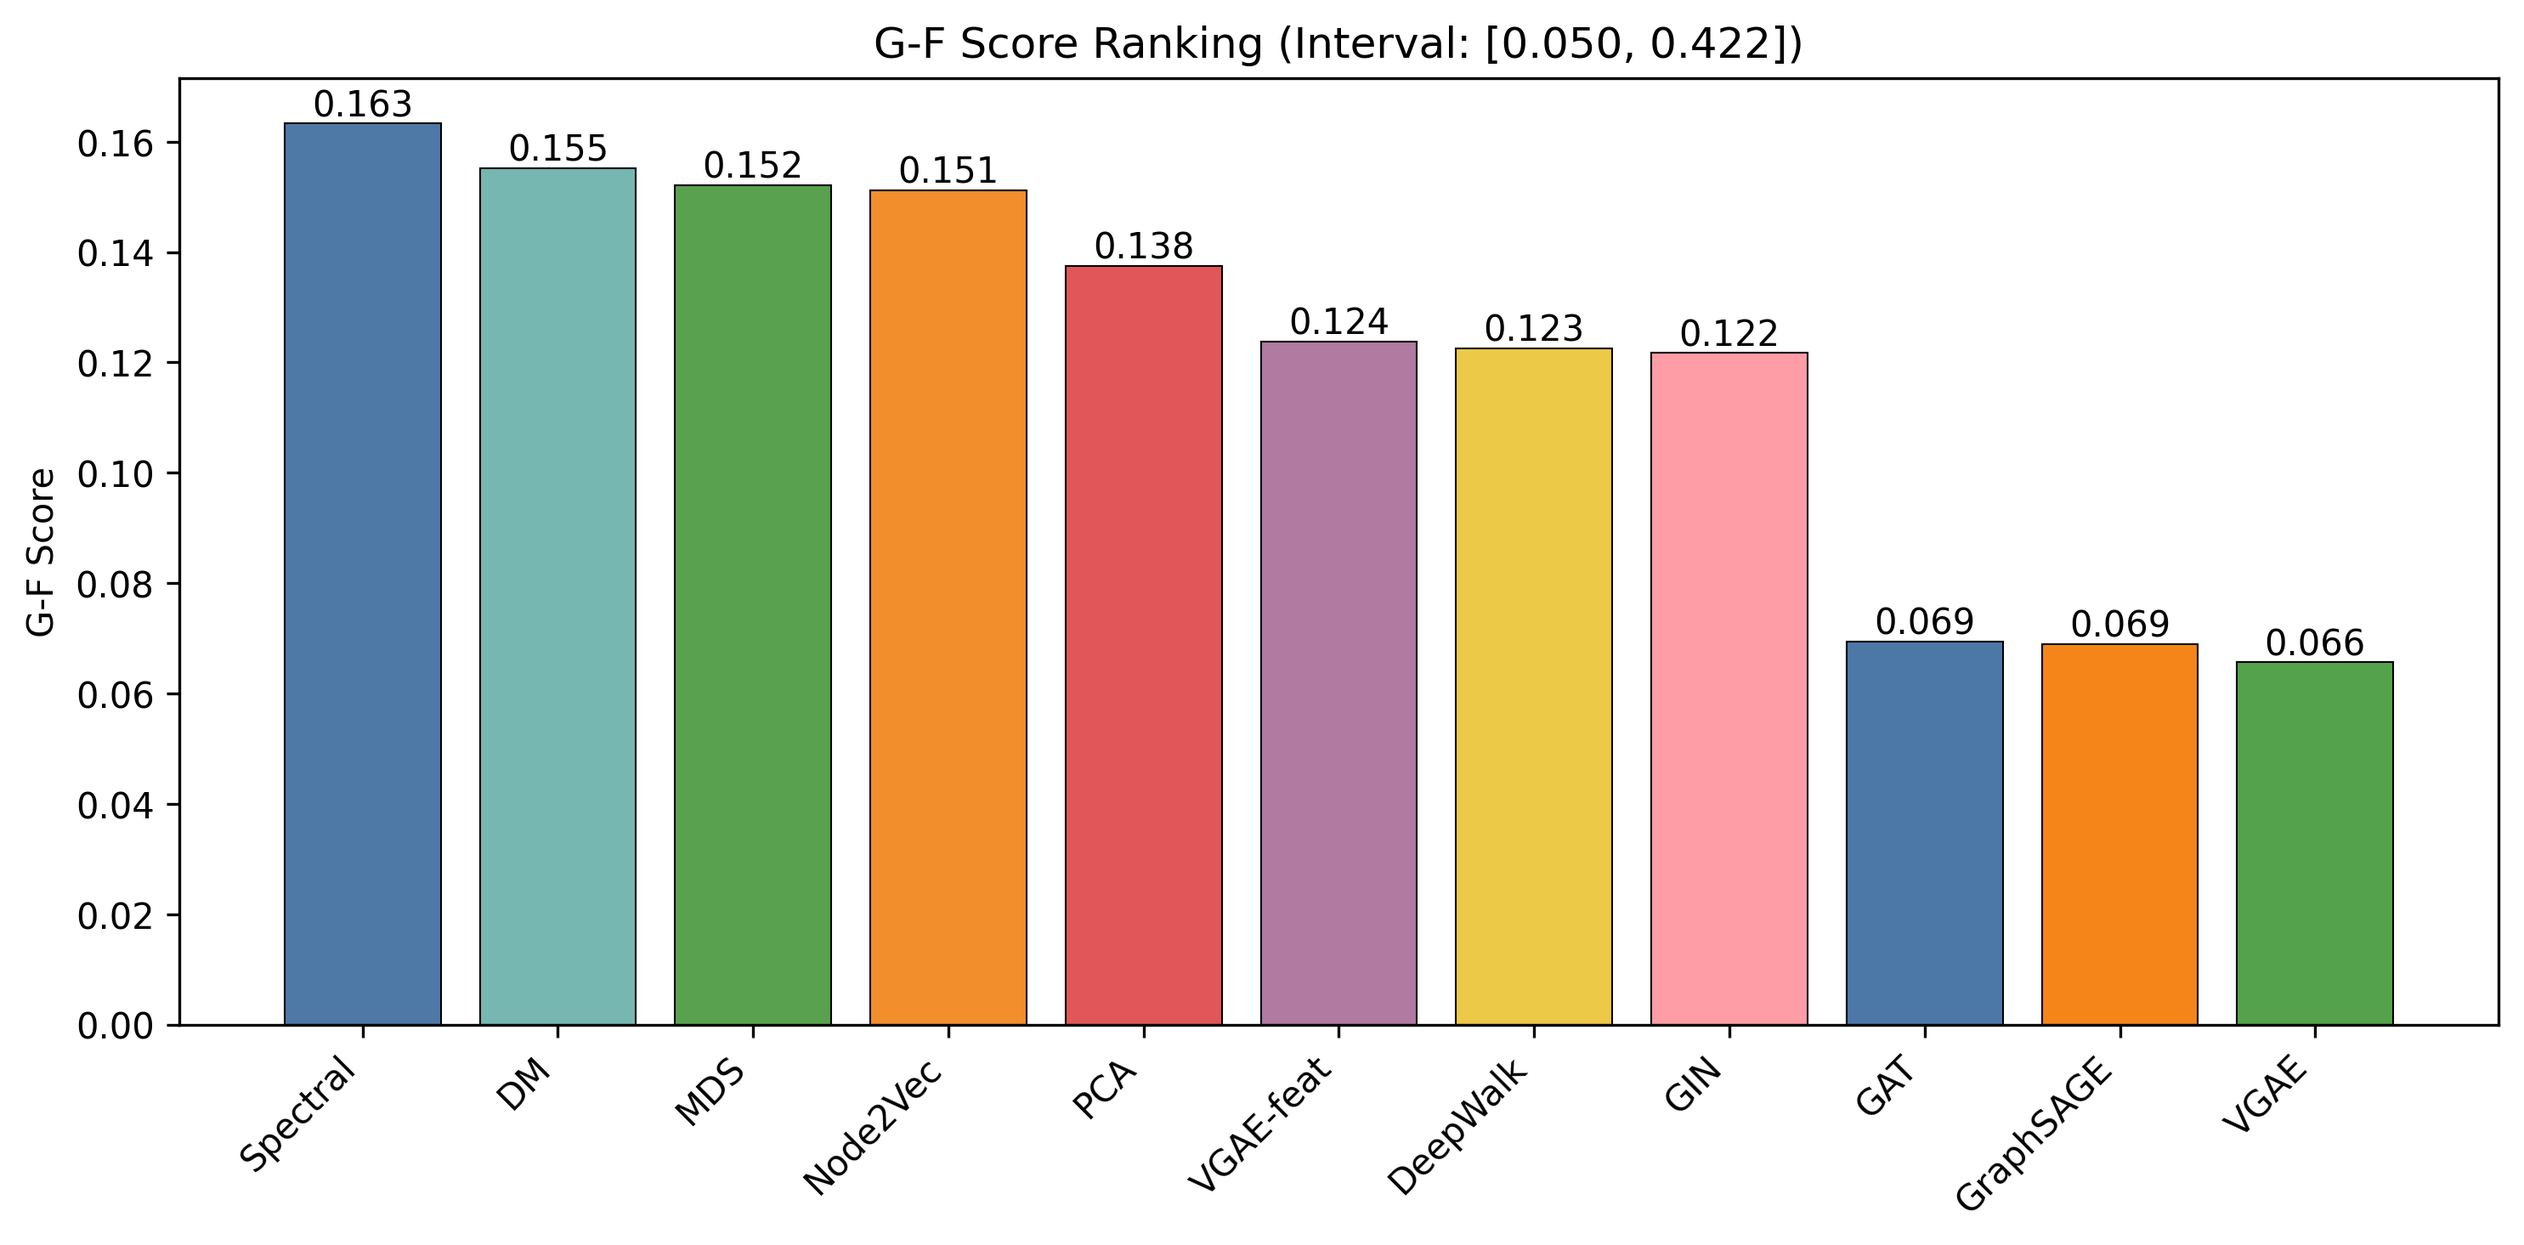
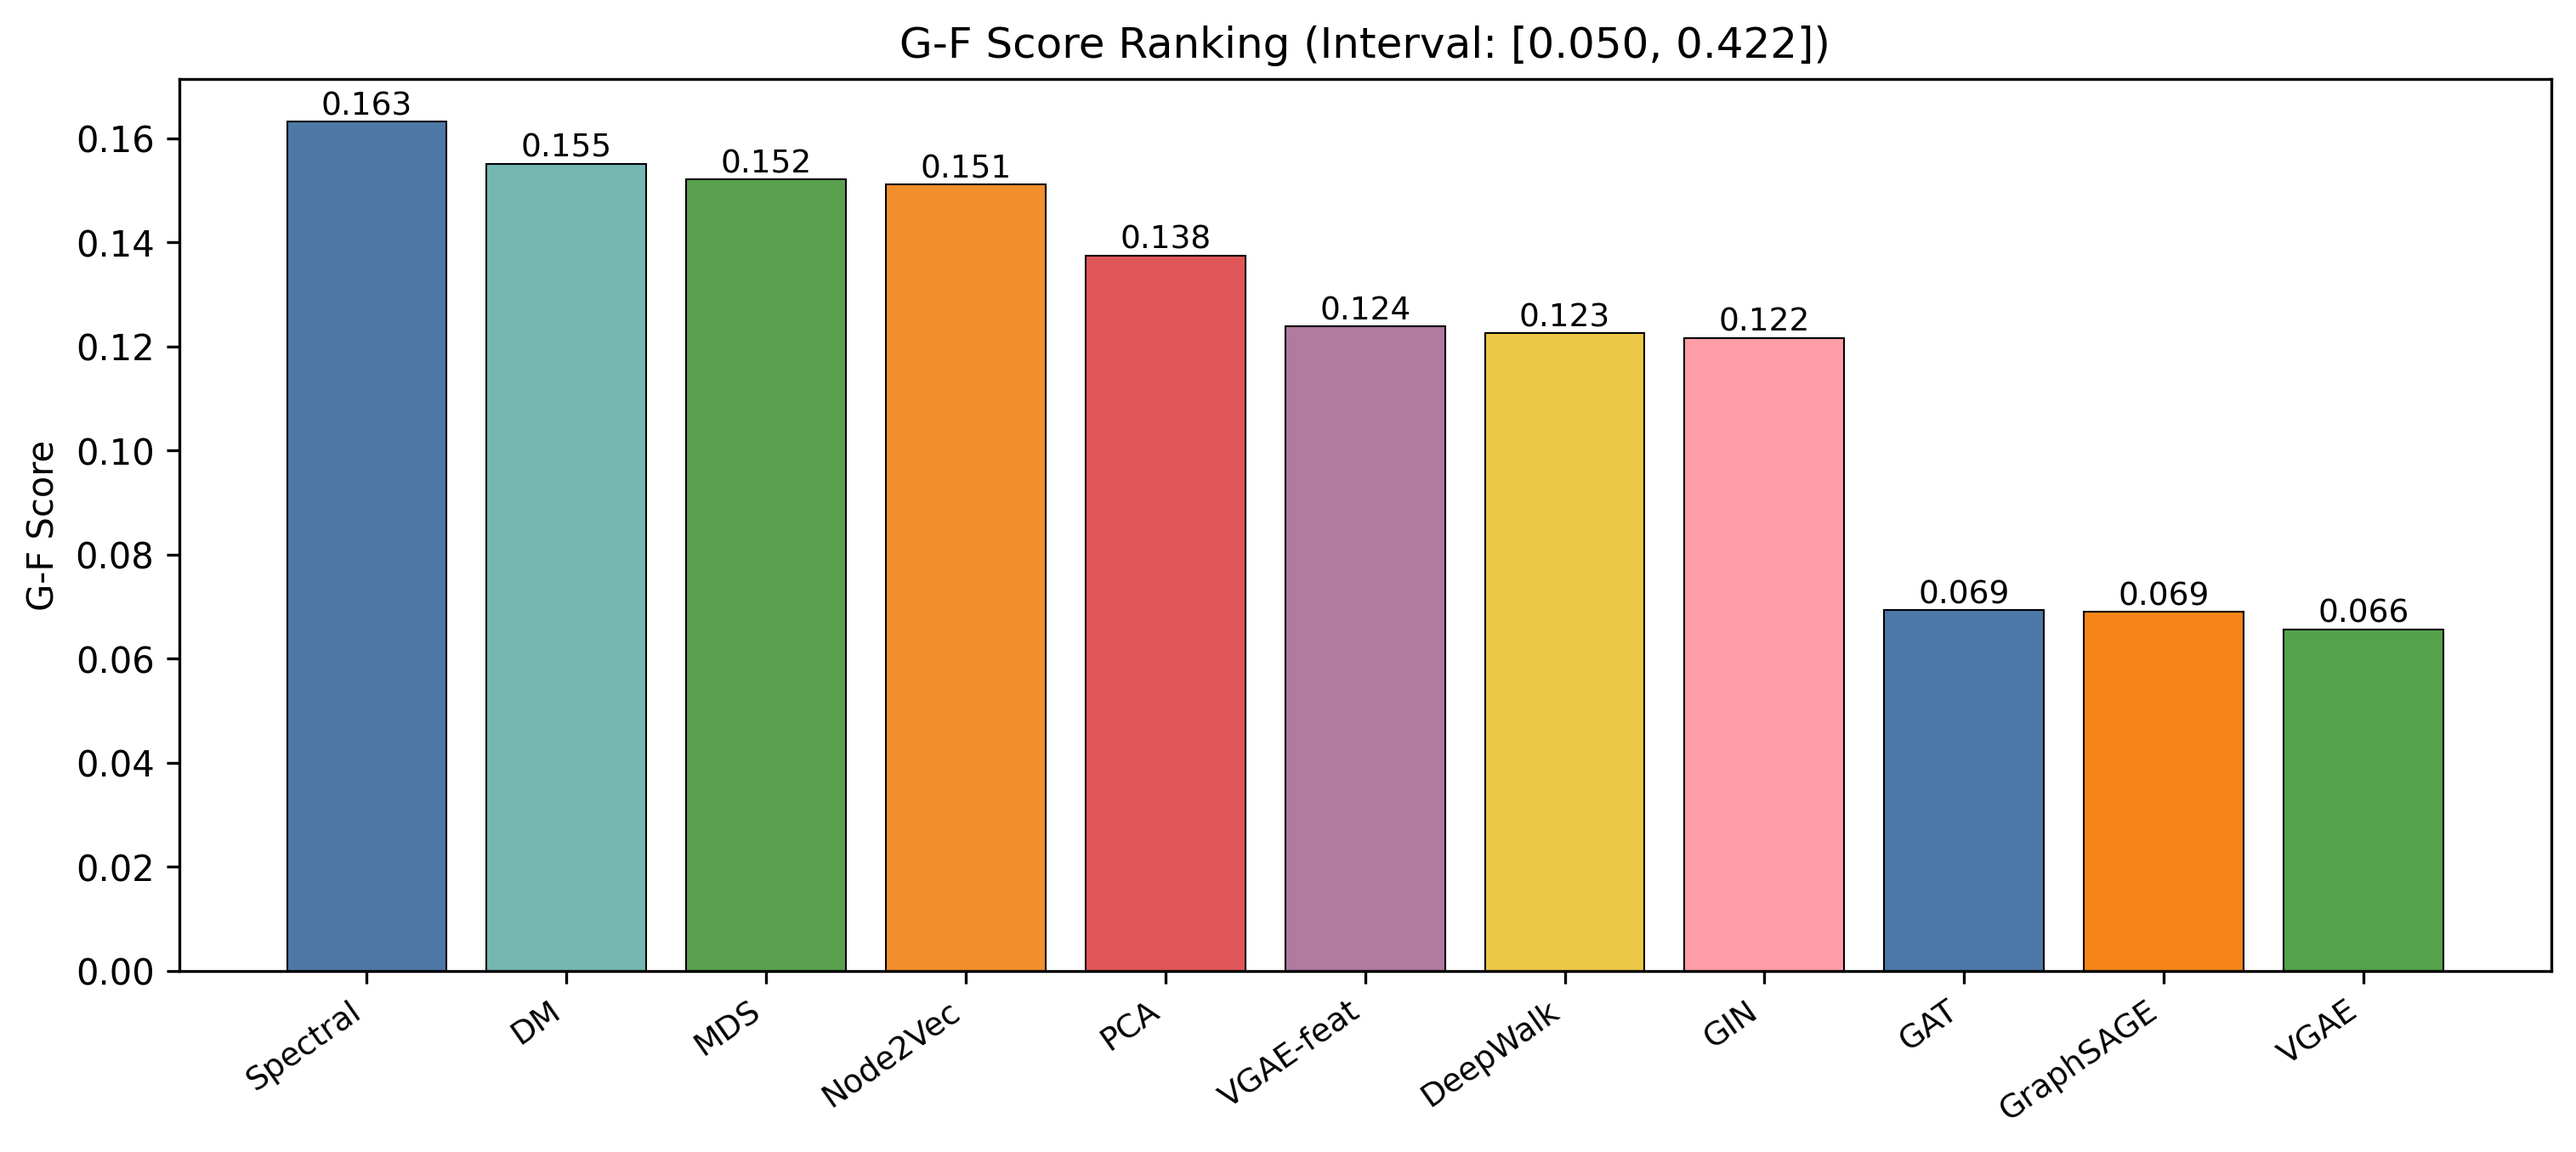
pipeline optimization: refactor core scripts, update figures

diff --git a/scripts/utils.py b/scripts/utils.py
@@ -59,8 +59,8 @@ K_NEIGHBORS: int = 5
 MIN_LABEL_COUNT: int = 3
 STRING_MIN_SCORE: int = 700
 
-# Plateau detection
-PLATEAU_PURITY_THRESHOLD: float = 0.5
+# Plateau detection (relative threshold: fraction of peak purity)
+PLATEAU_RELATIVE_THRESHOLD: float = 0.80
 
 # ============================================================
 # Directory Helpers
@@ -441,15 +441,41 @@ def coords_to_dict(coords: np.ndarray, nodes: list) -> dict:
 # ============================================================
 
 def compute_plateau_width(r_vals, purity_vals,
-                          threshold: float = PLATEAU_PURITY_THRESHOLD) -> float:
-    """Width of the r-interval where purity >= threshold."""
-    r = np.asarray(r_vals)
-    p = np.asarray(purity_vals)
-    mask = p >= threshold
+                          relative_threshold: float = PLATEAU_RELATIVE_THRESHOLD) -> dict:
+    """Width of the r-interval where purity >= relative_threshold * peak_purity.
+
+    Uses a *relative* threshold so that the plateau is defined with respect
+    to each method's own peak purity rather than a fixed absolute cutoff.
+
+    Returns
+    -------
+    dict with keys W, r_min, r_max, peak_purity, effective_threshold.
+    Returns all-zero dict when no points exceed the threshold.
+    """
+    r = np.asarray(r_vals, dtype=float)
+    p = np.asarray(purity_vals, dtype=float)
+    if len(p) == 0:
+        return {"W": 0.0, "r_min": 0.0, "r_max": 0.0,
+                "peak_purity": 0.0, "effective_threshold": 0.0}
+
+    peak = float(p.max())
+    effective_thr = peak * relative_threshold
+
+    if peak <= 0.0 or effective_thr <= 0.0:
+        return {"W": 0.0, "r_min": 0.0, "r_max": 0.0,
+                "peak_purity": peak, "effective_threshold": effective_thr}
+
+    mask = p >= effective_thr
     if not mask.any():
-        return 0.0
+        return {"W": 0.0, "r_min": 0.0, "r_max": 0.0,
+                "peak_purity": peak, "effective_threshold": effective_thr}
+
     r_plateau = r[mask]
-    return float(r_plateau[-1] - r_plateau[0])
+    return {"W": float(r_plateau[-1] - r_plateau[0]),
+            "r_min": float(r_plateau[0]),
+            "r_max": float(r_plateau[-1]),
+            "peak_purity": peak,
+            "effective_threshold": float(effective_thr)}
 
 
 # ============================================================

diff --git a/scripts/compute_gf.py b/scripts/compute_gf.py
@@ -21,7 +21,7 @@ from pathlib import Path
 sys.path.insert(0, str(Path(__file__).resolve().parent))
 from utils import (
     SEED, R_MIN, R_MAX, N_POINTS, GF_R_MIN, GF_R_MAX,
-    CLASSICAL_METHODS, PLATEAU_PURITY_THRESHOLD,
+    CLASSICAL_METHODS, PLATEAU_RELATIVE_THRESHOLD,
     get_data_dir, get_results_dir, get_embeddings_dir,
     load_curated_network, load_embedding, compute_gf_curve,
     compute_gf_score, compute_plateau_width, rescale_coordinates,
@@ -394,21 +394,17 @@ def main():
     plateau_file = results_dir / "plateau_width_v3_200pts.csv"
     with open(plateau_file, "w", newline="") as f:
         writer = csv.writer(f)
-        writer.writerow(["Method", "W", "r_min", "r_max", "GF_Score"])
+        writer.writerow(["Method", "W", "r_min", "r_max", "GF_Score",
+                          "peak_purity", "effective_threshold"])
         for method in all_purities:
-            w = compute_plateau_width(r_vals, all_purities[method],
-                                      threshold=PLATEAU_PURITY_THRESHOLD)
+            pw = compute_plateau_width(r_vals, all_purities[method],
+                                       relative_threshold=PLATEAU_RELATIVE_THRESHOLD)
             score = gf_scores.get(method, 0.0)
-            # Find r_min and r_max of plateau
-            p = np.array(all_purities[method])
-            mask = p >= PLATEAU_PURITY_THRESHOLD
-            if mask.any():
-                r_plateau = r_vals[mask]
-                r_min_p, r_max_p = float(r_plateau[0]), float(r_plateau[-1])
-            else:
-                r_min_p, r_max_p = 0.0, 0.0
-            writer.writerow([method, f"{w:.4f}", f"{r_min_p:.4f}",
-                             f"{r_max_p:.4f}", f"{score:.4f}"])
+            writer.writerow([method,
+                             f"{pw['W']:.4f}", f"{pw['r_min']:.4f}",
+                             f"{pw['r_max']:.4f}", f"{score:.4f}",
+                             f"{pw['peak_purity']:.4f}",
+                             f"{pw['effective_threshold']:.4f}"])
     print(f"Saved plateau widths to: {plateau_file}")
     
     # Print ranking

diff --git a/scripts/link_prediction.py b/scripts/link_prediction.py
@@ -4,7 +4,7 @@ link_prediction.py
 Step 8: Link prediction using 5-fold CV with logistic regression.
 Input: node pair Hadamard product of embeddings.
 Expected ranking: Spectral > MDS > DM > DeepWalk ~ Node2Vec > VGAE
-Observed Spearman rho(AUROC, G-F Score) ~ +0.829 (positive: higher G-F score ~ higher AUROC)
+Observed Spearman rho(AUROC, G-F Score) ~ +0.943 (positive: higher G-F score ~ higher AUROC)
 """
 
 import sys
@@ -149,13 +149,31 @@ def main():
         print(f"\nWARNING: Only {len(auroc_list)} methods with both AUROC and G-F score "
               f"(< {MIN_METHODS_FOR_SPEARMAN} required). "
               f"Spearman correlation reported as NaN.")
-    
+
+    # Leave-one-out sensitivity analysis
+    loo_results = {}
+    if len(auroc_list) >= MIN_METHODS_FOR_SPEARMAN:
+        method_names = [m for m in auroc_results if m in gf_scores]
+        loo_rhos = []
+        for excluded in method_names:
+            sub_auroc = [auroc_results[m]["auroc_mean"]
+                         for m in method_names if m != excluded]
+            sub_gf = [gf_scores[m] for m in method_names if m != excluded]
+            if len(sub_auroc) >= 4:
+                loo_rho, _ = stats.spearmanr(sub_auroc, sub_gf)
+                loo_results[excluded] = round(float(loo_rho), 4)
+                loo_rhos.append(float(loo_rho))
+        if loo_rhos:
+            print(f"  Leave-one-out: rho range [{min(loo_rhos):.4f}, "
+                  f"{max(loo_rhos):.4f}], mean={np.mean(loo_rhos):.4f}")
+
     # Save results
     result = {
         "auroc_results": auroc_results,
         "spearman_rho_auroc_gf": rho,
         "spearman_p_value": p_val,
         "gf_scores_used": gf_scores,
+        "spearman_leave_one_out": loo_results,
     }
     
     output_file = results_dir / "link_prediction.json"

diff --git a/scripts/sampling_density.py b/scripts/sampling_density.py
@@ -14,7 +14,7 @@ from pathlib import Path
 sys.path.insert(0, str(Path(__file__).resolve().parent))
 from utils import (
     SEED, R_MIN, R_MAX, GF_R_MIN, GF_R_MAX, CLASSICAL_METHODS,
-    PLATEAU_PURITY_THRESHOLD, get_data_dir, get_results_dir,
+    PLATEAU_RELATIVE_THRESHOLD, get_data_dir, get_results_dir,
     get_embeddings_dir, load_curated_network, load_embedding,
     compute_gf_curve, compute_plateau_width, compute_gf_score,
 )
@@ -49,17 +49,17 @@ def main():
                 purities, modularities = compute_gf_curve(aligned_coords, common, go_map, r_vals)
                 
                 gf_score = compute_gf_score(r_vals, purities, GF_R_MIN, GF_R_MAX)
-                plateau_w = compute_plateau_width(r_vals, purities,
-                                                 threshold=PLATEAU_PURITY_THRESHOLD)
+                pw = compute_plateau_width(r_vals, purities,
+                                           relative_threshold=PLATEAU_RELATIVE_THRESHOLD)
                 
                 results[method][grid_name] = {
                     "n_points": n_pts,
                     "gf_score": gf_score,
-                    "plateau_width": plateau_w,
-                    "max_purity": max(purities),
+                    "plateau_width": pw["W"],
+                    "max_purity": pw["peak_purity"],
                 }
-                print(f"  {grid_name}-pt: GF={gf_score:.4f}, W={plateau_w:.4f}, "
-                      f"max_pur={max(purities):.4f}")
+                print(f"  {grid_name}-pt: GF={gf_score:.4f}, W={pw['W']:.4f}, "
+                      f"max_pur={pw['peak_purity']:.4f}")
         except Exception as e:
             print(f"  {method} FAILED: {e}")
     

diff --git a/scripts/embed_gnn.py b/scripts/embed_gnn.py
@@ -33,7 +33,7 @@ from utils import (
     check_embedding_collapse, align_embedding_to_nodes,
     CLASSICAL_METHODS, ALL_CURATED_METHODS, GNN_METHODS, ALL_METHODS,
     GF_R_MIN, GF_R_MAX, R_MIN, R_MAX, N_POINTS, TARGET_STD,
-    CV_FOLDS, K_NEIGHBORS, MIN_LABEL_COUNT, PLATEAU_PURITY_THRESHOLD,
+    CV_FOLDS, K_NEIGHBORS, MIN_LABEL_COUNT, PLATEAU_RELATIVE_THRESHOLD,
 )
 
 # Seeds are set inside main() to avoid side-effects on import.
@@ -550,11 +550,17 @@ def compute_gf_curves_and_scores(
         all_gf_scores[method] = score
         print(f"    G-F Score: {score:.4f}")
 
-        w = compute_plateau_width(
-            r_vals, purities, threshold=PLATEAU_PURITY_THRESHOLD
+        pw = compute_plateau_width(
+            r_vals, purities, relative_threshold=PLATEAU_RELATIVE_THRESHOLD
         )
-        all_plateau_widths[method] = {"W": round(w, 4)}
-        print(f"    Plateau width W: {w:.4f}")
+        all_plateau_widths[method] = {
+            "W": round(pw["W"], 4),
+            "r_min": round(pw["r_min"], 4),
+            "r_max": round(pw["r_max"], 4),
+            "peak_purity": round(pw["peak_purity"], 4),
+        }
+        print(f"    Plateau width W: {pw['W']:.4f} "
+              f"(peak purity: {pw['peak_purity']:.4f})")
 
     return all_purities, all_gf_scores, all_plateau_widths
 

diff --git a/scripts/plot_figures.py b/scripts/plot_figures.py
@@ -252,7 +252,7 @@ def plot_figure5_gf_scores(results_dir, figures_dir):
     methods = [methods[i] for i in sorted_idx]
     values = [values[i] for i in sorted_idx]
 
-    fig, ax = plt.subplots(figsize=(10, 5))
+    fig, ax = plt.subplots(figsize=(12, 5))
 
     # Use a distinct color palette — top method highlighted, rest graded
     palette = ['#4E79A7', '#76B7B2', '#59A14F', '#F28E2B', '#E15759', '#B07AA1', '#EDC948', '#FF9DA7', '#4C78A8', '#F58518', '#54A24B']
@@ -270,14 +270,14 @@ def plot_figure5_gf_scores(results_dir, figures_dir):
     ax.set_ylabel('G-F Score')
     ax.set_title(f'G-F Score Ranking (Interval: [{interval[0]:.3f}, {interval[1]:.3f}])')
     ax.set_xticks(range(len(methods)))
-    ax.set_xticklabels(methods, rotation=45, ha='right')
+    ax.set_xticklabels(methods, rotation=35, ha='right', fontsize=9)
 
     # Add value labels on bars
     for bar, val in zip(bars, values):
         ax.text(bar.get_x() + bar.get_width()/2, bar.get_height(),
-                f'{val:.3f}', ha='center', va='bottom', fontsize=10)
+                f'{val:.3f}', ha='center', va='bottom', fontsize=9)
 
-    plt.tight_layout()
+    plt.subplots_adjust(bottom=0.18)
     plt.savefig(figures_dir / "Fig5_GF_scores.png", dpi=300, bbox_inches='tight')
     plt.close()
     print("Figure 5 saved")

diff --git a/scripts/biological_interpretation.py b/scripts/biological_interpretation.py
@@ -900,11 +900,11 @@ def generate_three_panel_figure(
         best_cluster_rank = all_clusters.index(best_cluster)
 
     # ---- Create figure ----
-    fig, axes = plt.subplots(1, 3, figsize=(18, 6))
+    fig, axes = plt.subplots(1, 3, figsize=(18, 7))
     fig.suptitle(
         f"Biological Case Study: {method} (G-F Score Level "
         f"{classify_gf_score(DEFAULT_GF_SCORES.get(method, 0.5))['level']})",
-        fontsize=14, fontweight="bold", y=1.02,
+        fontsize=14, fontweight="bold",
     )
 
     # ==================================================================
@@ -1089,9 +1089,9 @@ def generate_three_panel_figure(
     ax_c.axis("off")
 
     # ---- Save ----
-    fig.tight_layout(rect=[0, 0, 1, 0.97])
+    fig.tight_layout(rect=[0, 0, 1, 0.95])
     output_path = figures_dir / "FigS5_biological_case_study.png"
-    fig.savefig(str(output_path), dpi=300, bbox_inches="tight")
+    fig.savefig(str(output_path), dpi=300, bbox_inches="tight", pad_inches=0.3)
     plt.close(fig)
 
     return fig

diff --git a/scripts/go_propagation.py b/scripts/go_propagation.py
@@ -1131,6 +1131,15 @@ def main():
         "mean_terms_per_gene_after": round(float(mean_terms_after), 4),
         "gf_score_curated_153": gf_curated,
         "gf_score_extended": gf_extended,
+        "gf_score_extended_note": (
+            "Extended G-F scores approach ~1.0 because True Path Rule "
+            "propagation adds all ancestor GO terms (avg %.1f terms/gene), "
+            "causing near-uniform community purity. This is an expected "
+            "artifact of hierarchical annotation expansion. The main G-F "
+            "scores in final_results_summary.json use the original "
+            "pre-propagation annotations and are not affected."
+            % float(mean_terms_after)
+        ),
         "subset_convergence": convergence,
     }
 

diff --git a/run_all_analysis.py b/run_all_analysis.py
@@ -170,6 +170,8 @@ def generate_final_summary(results_dir):
                     "W": float(row.get("W", 0)),
                     "r_min": float(row.get("r_min", 0)),
                     "r_max": float(row.get("r_max", 0)),
+                    "peak_purity": float(row.get("peak_purity", 0)),
+                    "effective_threshold": float(row.get("effective_threshold", 0)),
                 }
 
     # 7. Bonferroni results (with cross-validation)

diff --git a/README.md b/README.md
@@ -243,6 +243,18 @@ Details → [`human_validation/README.md`](human_validation/README.md) · Figure
 
 ---
 
+## Limitations
+
+- **Network scale**: The primary ranking is based on a curated 153-node yeast subnetwork. Full-network (5,936 nodes) and cross-species (15,882 nodes) validations confirm general trends, but fine-grained method ordering may vary with network size.
+- **GO annotation bias**: G-F Score depends on GO annotation quality and coverage. Well-studied genes have richer annotations, potentially inflating purity for communities dominated by such genes.
+- **GO DAG propagation artifact**: True Path Rule expansion (Step 19) increases annotations from ~3.8 to ~28.9 terms/gene, causing community purity to approach 1.0 (G-F Score ≈ 0.9996). This is a known artifact of hierarchical expansion; the main results use pre-propagation annotations.
+- **Community detection**: Only greedy modularity optimization is used for distance-threshold communities. Alternative algorithms (Leiden, Louvain) may produce different purity profiles.
+- **2D projection**: All embeddings are standardized to σ = 0.3 and projected to 2D before G-F analysis. High-dimensional geometric properties may not be fully captured in 2D.
+- **Plateau width**: Defined as the r-interval where purity ≥ 80% of each method's peak (relative threshold). Methods with very flat purity curves may yield wide plateaus despite low absolute purity.
+- **Spearman correlation**: rho = 0.943 is based on n = 6 method-level observations (classical methods with both AUROC and G-F Score). Leave-one-out sensitivity analysis is provided in `results/link_prediction.json`.
+
+---
+
 ## Author
 
 **Yuhan Zhang (张宇涵)**  
